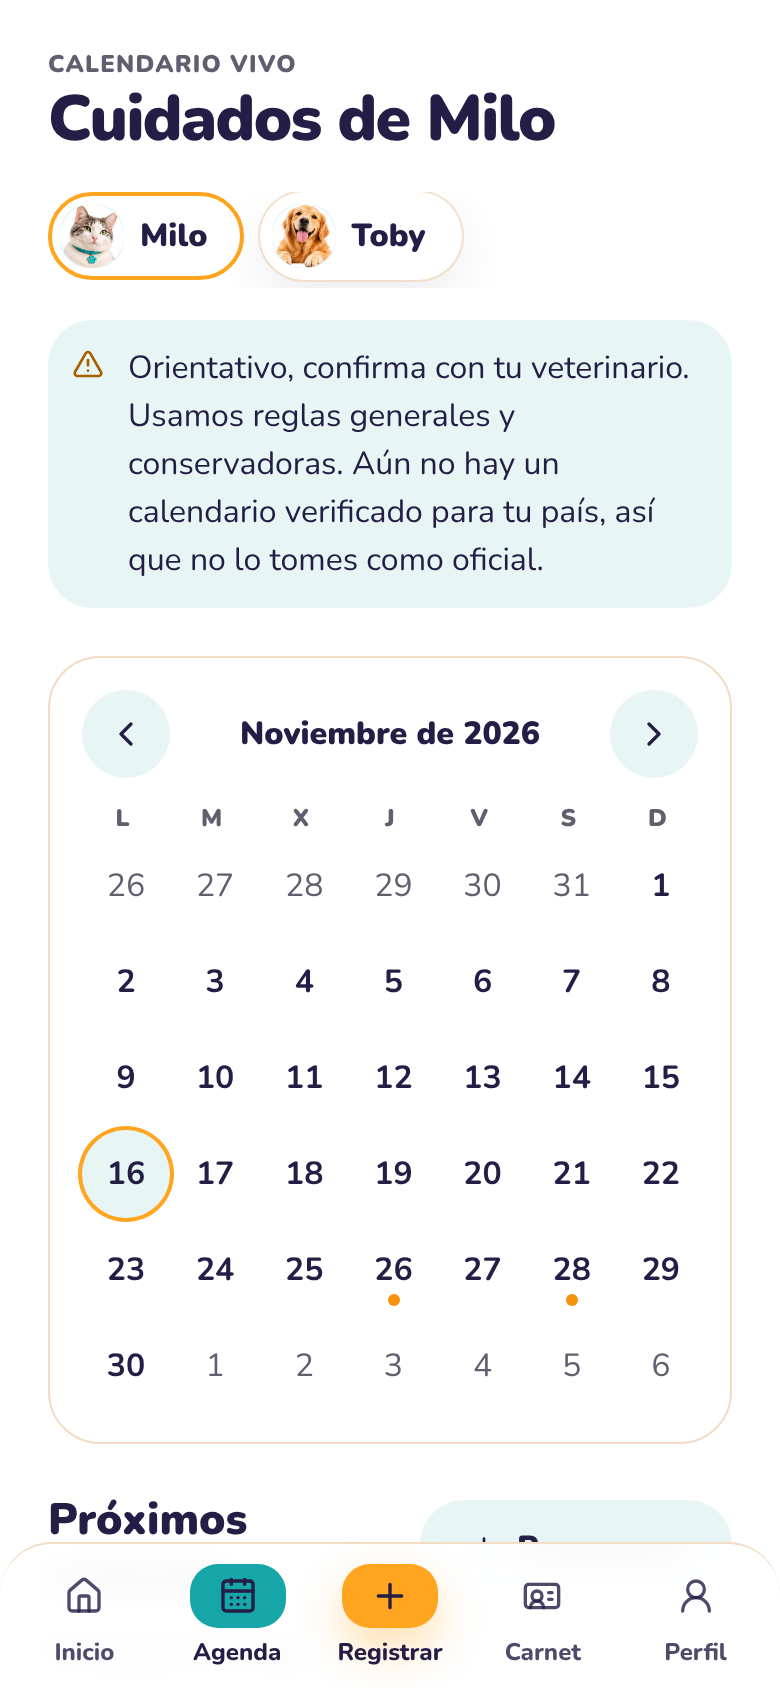
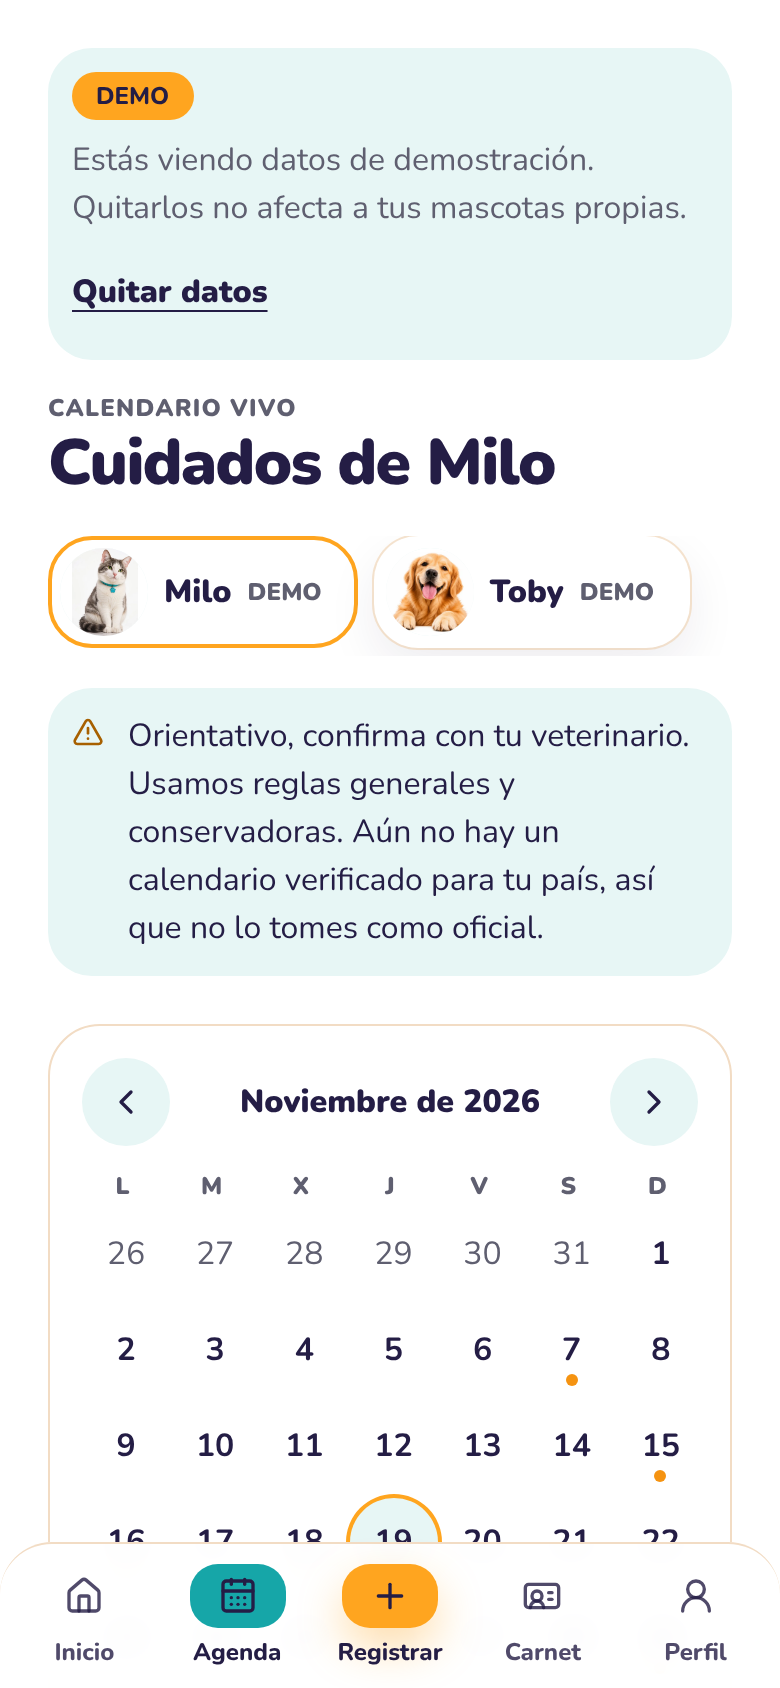
Fotos de Milo completas en el selector y en la portada
- El selector de mascotas muestra la foto con un recuadro más grande, para ver el gato entero (Registrar, Cuidados y demás pantallas).
- Al cargar la demostración se actualizan las entradas guardadas con su versión actual; antes se conservaba una foto antigua.
- Captura de Cuidados de Milo para la portada regenerada; la anterior queda en respaldo/capturas-milo-toby.

Claude-Session: https://claude.ai/code/session_01BjtNdvUPFYYkV9nZtombvC

diff --git a/lib/store/reductor.ts b/lib/store/reductor.ts
@@ -93,14 +93,28 @@ export function reducir(estado: EstadoApp, accion: Accion): EstadoApp {
     case "cuidado/eliminar":
       return { ...estado, cuidados: estado.cuidados.filter((c) => c.id !== accion.id) };
     case "demo/cargar": {
-      const yaCargada = accion.demo.mascotas.every((d) => estado.mascotas.some((m) => m.id === d.id));
-      if (yaCargada) return estado;
-      const mascotas = [...estado.mascotas, ...accion.demo.mascotas.filter((d) => !estado.mascotas.some((m) => m.id === d.id))];
+      // Las entradas de demostración se actualizan con su versión actual (p. ej. una foto nueva),
+      // así un navegador con datos demo guardados no se queda con los antiguos.
+      const actualizar = <T extends { id: string }>(actuales: T[], nuevos: T[]): T[] => {
+        const porId = new Map(nuevos.map((n) => [n.id, n]));
+        const reemplazados = actuales.map((a) => porId.get(a.id) ?? a);
+        const faltan = nuevos.filter((n) => !actuales.some((a) => a.id === n.id));
+        return [...reemplazados, ...faltan];
+      };
+      const mascotas = actualizar(estado.mascotas, accion.demo.mascotas);
+      const registros = actualizar(estado.registros, accion.demo.registros);
+      const cuidados = actualizar(estado.cuidados, accion.demo.cuidados);
+      const sinCambios =
+        JSON.stringify(mascotas) === JSON.stringify(estado.mascotas) &&
+        JSON.stringify(registros) === JSON.stringify(estado.registros) &&
+        JSON.stringify(cuidados) === JSON.stringify(estado.cuidados) &&
+        estado.accesoSimulado;
+      if (sinCambios) return estado;
       return {
         ...estado,
         mascotas,
-        registros: [...estado.registros, ...accion.demo.registros.filter((d) => !estado.registros.some((r) => r.id === d.id))],
-        cuidados: [...estado.cuidados, ...accion.demo.cuidados.filter((d) => !estado.cuidados.some((c) => c.id === d.id))],
+        registros,
+        cuidados,
         mascotaActivaId: estado.mascotaActivaId ?? accion.demo.mascotas[0]?.id ?? null,
         accesoSimulado: true,
       };

diff --git a/lib/store/reductor.test.ts b/lib/store/reductor.test.ts
@@ -98,6 +98,16 @@ describe("store: reductor", () => {
     expect(e.registros).toEqual([]);
   });
 
+  it("una demostración guardada con datos antiguos se actualiza al volver a cargarla", () => {
+    const demo = crearDemo(HOY);
+    const antigua = { ...demo, mascotas: demo.mascotas.map((m) => ({ ...m, foto: undefined })) };
+    const e = reducir(estadoVacio(), { tipo: "demo/cargar", demo: antigua });
+    const nueva = reducir(e, { tipo: "demo/cargar", demo });
+    expect(nueva.mascotas.find((m) => m.origen === "demo" && m.foto)).toBeDefined();
+    expect(nueva.mascotas.filter((m) => m.origen === "demo")).toHaveLength(demo.mascotas.length);
+    expect(reducir(nueva, { tipo: "demo/cargar", demo })).toBe(nueva);
+  });
+
   it("la demostración se carga una sola vez y se quita sin tocar los datos reales", () => {
     const real = reducir(estadoVacio(), { tipo: "mascota/agregar", mascota: nueva("real", "Rocky"), registros: [peso("rp", "real", 20)] });
     const demo = crearDemo(HOY);

diff --git a/components/selector-mascota.tsx b/components/selector-mascota.tsx
@@ -23,8 +23,9 @@ export function SelectorMascota({ className }: { className?: string }) {
               activa ? "border-naranja bg-hundido" : "border-transparent shadow-calida",
             )}
           >
-            <span className="grid size-8 place-items-center overflow-hidden rounded-chip bg-hundido">
-              <MascotaAvatar personaje={m.personaje} foto={m.foto} tamano={32} />
+            {/* Con foto propia el recuadro es más grande, para que se vea el cuerpo completo. */}
+            <span className={cn("grid place-items-center overflow-hidden bg-hundido", m.foto ? "size-11 rounded-control" : "size-8 rounded-chip")}>
+              <MascotaAvatar personaje={m.personaje} foto={m.foto} tamano={m.foto ? 44 : 32} />
             </span>
             {m.nombre}
             {m.origen === "demo" && (
